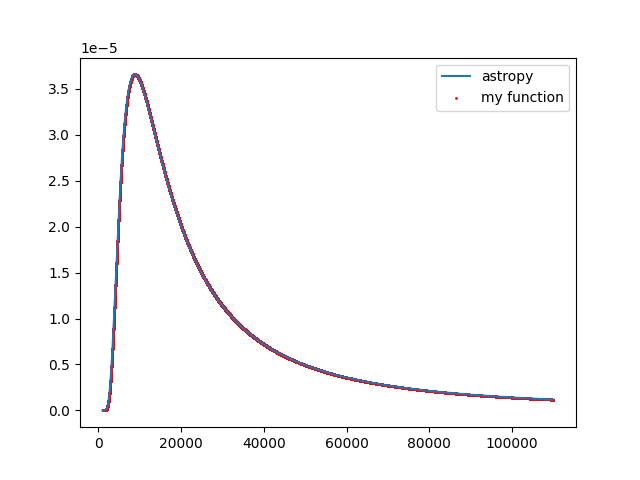
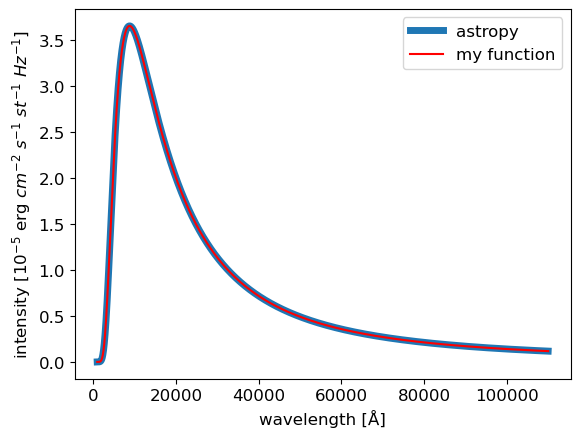
hw 1 done

diff --git a/homework_one.py b/homework_one.py
@@ -16,13 +16,26 @@ from astropy.modeling.models import BlackBody
 bb = BlackBody(temperature=5778*u.K)
 wav = np.arange(1000, 110000) * u.AA
 intensity_astropy = bb(wav)
-plt.plot(wav, intensity_astropy, label = "astropy")
+plt.plot(wav, intensity_astropy/1e-5, label = "astropy", linewidth = 5)
 
 intensity_function = Planck(constants.c.cgs.value / (wav.value/1e8), 5778)
-plt.scatter(wav, intensity_function, label = "my function", s = 1, color = 'r')
-plt.legend()
-plt.savefig("Figures/hw_one_figures/sample_a.png")
+plt.plot(wav, intensity_function/1e-5, label = "my function", color = 'r')
+
+plt.xlabel("wavelength [Å]", fontsize = 12)
+plt.ylabel("intensity [$10^{-5}$ erg $cm^{-2}$ $s^{-1}$ $st^{-1}$ $Hz^{-1}$]", fontsize = 12)
+plt.xticks(fontsize = 12) 
+plt.yticks(fontsize = 12) 
+plt.legend(fontsize = 12)
+plt.savefig("Figures/hw_one_figures/sample_a.png", bbox_inches='tight')
 plt.show()
+
+import pandas as pd
+df = pd.DataFrame()
+df["Wavelength"] = wav.value[0:10]
+df["Astropy"] = intensity_astropy.value[0:10]
+df["My Function"] = intensity_function[0:10]
+with open('table.tex', 'w') as f:
+    f.write(df.to_latex(index = False))
 
 """
 b) Make three plots: one of Bν vs.  ̃ν on the range 0 to 12 μm−1, one of log Bν vs.  ̃ν on
@@ -39,19 +52,27 @@ wavelengths = 1 / wavenumber_microns
 intensity_function3000 = Planck(constants.c.cgs.value / (wavelengths/1e4), 3000)
 intensity_function7000 = Planck(constants.c.cgs.value / (wavelengths/1e4), 7000)
 intensity_function10000 = Planck(constants.c.cgs.value / (wavelengths/1e4), 10000)
-plt.plot(wavenumber_microns, intensity_function3000, label = "3000K")
-plt.plot(wavenumber_microns, intensity_function7000, label = "7000K")
-plt.plot(wavenumber_microns, intensity_function10000, label = "10000K")
-plt.legend()
-plt.savefig("Figures/hw_one_figures/sample_bi.png")
+plt.plot(wavenumber_microns, intensity_function3000 *1e4, label = "3000K", linewidth = 5)
+plt.plot(wavenumber_microns, intensity_function7000*1e4, label = "7000K", linewidth = 5)
+plt.plot(wavenumber_microns, intensity_function10000*1e4, label = "10000K", linewidth = 5)
+plt.xlabel("wavenumber [$μm^{−1}$]", fontsize = 12)
+plt.ylabel("intensity [$10^{-4}$ erg $cm^{-2}$ $s^{-1}$ $st^{-1}$ $Hz^{-1}$]", fontsize = 12)
+plt.xticks(fontsize = 12) 
+plt.yticks(fontsize = 12) 
+plt.legend(fontsize = 12)
+plt.savefig("Figures/hw_one_figures/sample_bi.png", bbox_inches='tight')
 plt.show()
 
-plt.plot(wavenumber_microns, intensity_function3000, label = "3000K")
-plt.plot(wavenumber_microns, intensity_function7000, label = "7000K")
-plt.plot(wavenumber_microns, intensity_function10000, label = "10000K")
-plt.legend()
+plt.plot(wavenumber_microns, intensity_function3000, label = "3000K", linewidth = 5)
+plt.plot(wavenumber_microns, intensity_function7000, label = "7000K", linewidth = 5)
+plt.plot(wavenumber_microns, intensity_function10000, label = "10000K", linewidth = 5)
+plt.xlabel("wavenumber [$μm^{−1}$]", fontsize = 12)
+plt.ylabel("log intensity [erg $cm^{-2}$ $s^{-1}$ $st^{-1}$ $Hz^{-1}$]", fontsize = 12)
+plt.xticks(fontsize = 12) 
+plt.yticks(fontsize = 12) 
+plt.legend(fontsize = 12)
 plt.yscale("log")
-plt.savefig("Figures/hw_one_figures/sample_bii.png")
+plt.savefig("Figures/hw_one_figures/sample_bii.png", bbox_inches='tight')
 plt.show()
 
 #wavenumber range given
@@ -61,16 +82,19 @@ wavelengths = 1 / wavenumber_microns
 intensity_function3000 = Planck(constants.c.cgs.value / (wavelengths/1e4), 3000)
 intensity_function7000 = Planck(constants.c.cgs.value / (wavelengths/1e4), 7000)
 intensity_function10000 = Planck(constants.c.cgs.value / (wavelengths/1e4), 10000)
-plt.plot(wavenumber_microns, intensity_function3000, label = "3000K")
-plt.plot(wavenumber_microns, intensity_function7000, label = "7000K")
-plt.plot(wavenumber_microns, intensity_function10000, label = "10000K")
-plt.legend()
+plt.plot(wavenumber_microns, intensity_function3000, label = "3000K", linewidth = 5)
+plt.plot(wavenumber_microns, intensity_function7000, label = "7000K", linewidth = 5)
+plt.plot(wavenumber_microns, intensity_function10000, label = "10000K", linewidth = 5)
+plt.xlabel("log wavenumber [$μm^{−1}$]", fontsize = 12)
+plt.ylabel("log intensity [erg $cm^{-2}$ $s^{-1}$ $st^{-1}$ $Hz^{-1}$]", fontsize = 12)
+plt.xticks(fontsize = 12) 
+plt.yticks(fontsize = 12) 
+plt.legend(fontsize = 12)
 plt.yscale("log")
 plt.xscale("log")
-plt.savefig("Figures/hw_one_figures/sample_biii.png")
+plt.savefig("Figures/hw_one_figures/sample_biii.png", bbox_inches='tight')
 plt.show()
 
-#make plots pretty
-#finalize code (last read through of homework) and save everything
+
 #read latex guidelines and write up latex portion
 #submit! 

diff --git a/table.tex b/table.tex
@@ -1,0 +1,16 @@
+\begin{tabular}{rrr}
+\toprule
+ Wavelength &      Astropy &  My Function \\
+\midrule
+     1000.0 & 6.092025e-12 & 6.092025e-12 \\
+     1001.0 & 6.226772e-12 & 6.226772e-12 \\
+     1002.0 & 6.364203e-12 & 6.364203e-12 \\
+     1003.0 & 6.504364e-12 & 6.504364e-12 \\
+     1004.0 & 6.647304e-12 & 6.647304e-12 \\
+     1005.0 & 6.793071e-12 & 6.793071e-12 \\
+     1006.0 & 6.941715e-12 & 6.941715e-12 \\
+     1007.0 & 7.093285e-12 & 7.093285e-12 \\
+     1008.0 & 7.247833e-12 & 7.247833e-12 \\
+     1009.0 & 7.405410e-12 & 7.405410e-12 \\
+\bottomrule
+\end{tabular}
